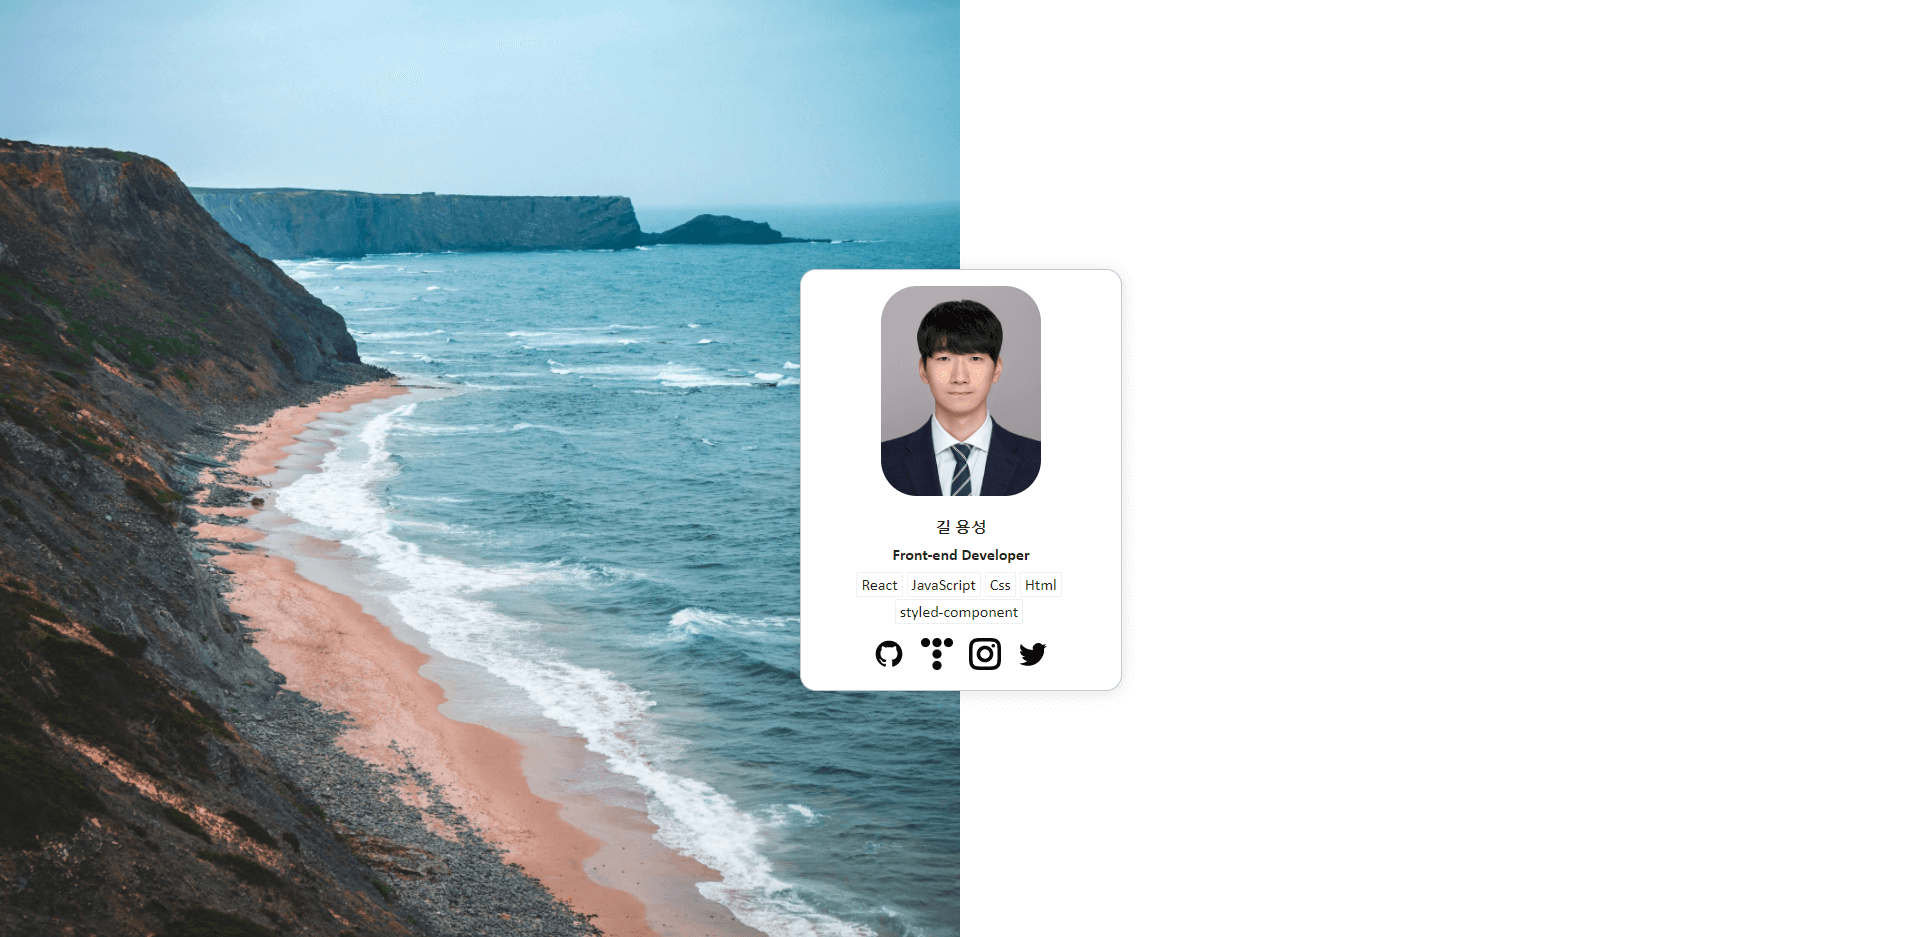
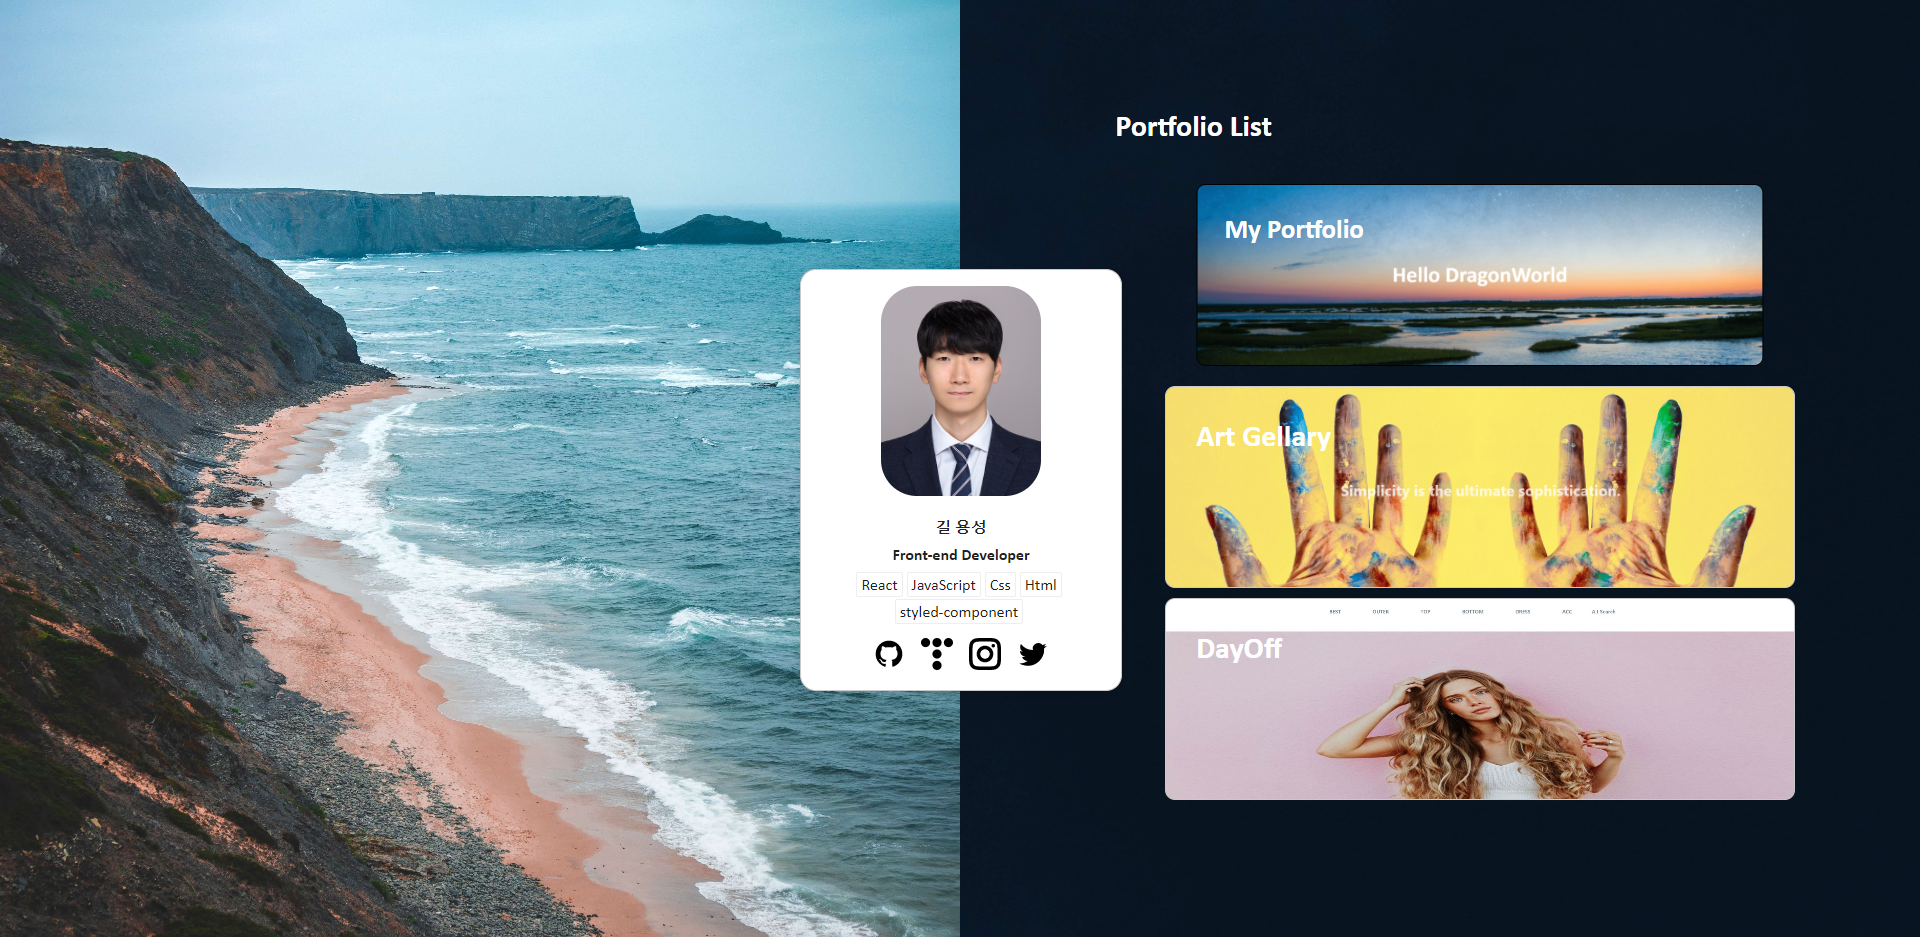
#info

diff --git a/src/Components/About.js b/src/Components/About.js
@@ -174,13 +174,35 @@ function About(props) {
           Portfolio List
           <ul className="contents__right--ul">
             <li>
-              <span>My Portfolio</span>
+              <a
+                style={{ textDecoration: "none" }}
+                href="https://github.com/gildydtjd/dragon"
+                target="_blank"
+                rel="noreferrer"
+              >
+                <span>My Portfolio</span>
+              </a>
             </li>
             <li>
-              <span>Art Gellary</span>
+              <a
+                style={{ textDecoration: "none" }}
+                href="https://github.com/gildydtjd/art"
+                target="_blank"
+                rel="noreferrer"
+              >
+                <span>Art Gellary</span>
+              </a>
             </li>
+
             <li>
-              <span>DayOff</span>
+              <a
+                style={{ textDecoration: "none" }}
+                href="https://github.com/gildydtjd/DayOff"
+                target="_blank"
+                rel="noreferrer"
+              >
+                <span>DayOff</span>
+              </a>
             </li>
           </ul>
         </div>

diff --git a/src/Components/project/Art.js b/src/Components/project/Art.js
@@ -45,10 +45,11 @@ function Art(props) {
         router를 통해 url에 맞는 페이지로 이동하는 프로젝트 입니다.
       </p>
       <p className="project__contents__sub">
-        이 프로젝트를 만들며 느낀점은 useState를 통해 상태를 저장하고,
+        이 프로젝트를 만들며 느낀점은 hook의 useState를 통해 상태를 저장하고,
         useEffect를 통해 저장된 상태가 바뀔때마다 실행할 함수를 지정하여,
         classComponent의 lifeCycle 보다 데이터 상태관리에 대해 편리함을
-        느꼈습니다.
+        느꼈습니다. 또한 상태관리에 대해 더 알아보게 되었고, Redux, contextApi
+        등을 접목해보려 공부하는 계기가 되었습니다.
       </p>
     </ProjectInfoDiv>
   );

diff --git a/src/Components/project/Dayoff.js b/src/Components/project/Dayoff.js
@@ -46,7 +46,9 @@ function Dayoff(props) {
         처음 페이지에 들어올때 권한에 따라 뿌려지는 컨텐츠를 유저, 관리자로
         나누었으며, 그에 따른 기능 또한 부여하였습니다. 이 프로젝트로 인해
         느낀점은 첫 프로젝트여서 정말 보람찼고, 전체적인 구성을 알게되어 보다
-        프로그래밍에 재미를 붙이고, 빠져드는 계기가 되었습니다.
+        프로그래밍에 재미를 붙이고, 빠져드는 계기가 되었습니다. 그렇지만 이
+        최종프로젝트에서 많은 부족함과 아쉬움을 느끼고, 부족함을 채우기 위해
+        React에 대해 심층적 공부를 하는 계기가 되었습니다.
       </p>
     </ProjectInfoDiv>
   );

diff --git a/src/Components/project/ProjectPage.js b/src/Components/project/ProjectPage.js
@@ -28,7 +28,7 @@ const StyledDiv = styled.div`
   }
 
   .project__info {
-    height: 500px;
+    height: 470px;
     width: 50%;
     padding: 16px;
     margin-right: 15%;
